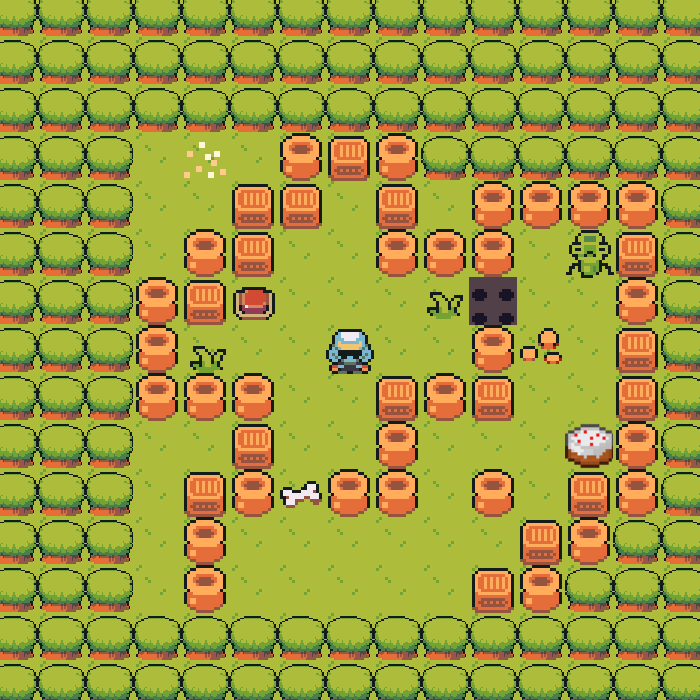
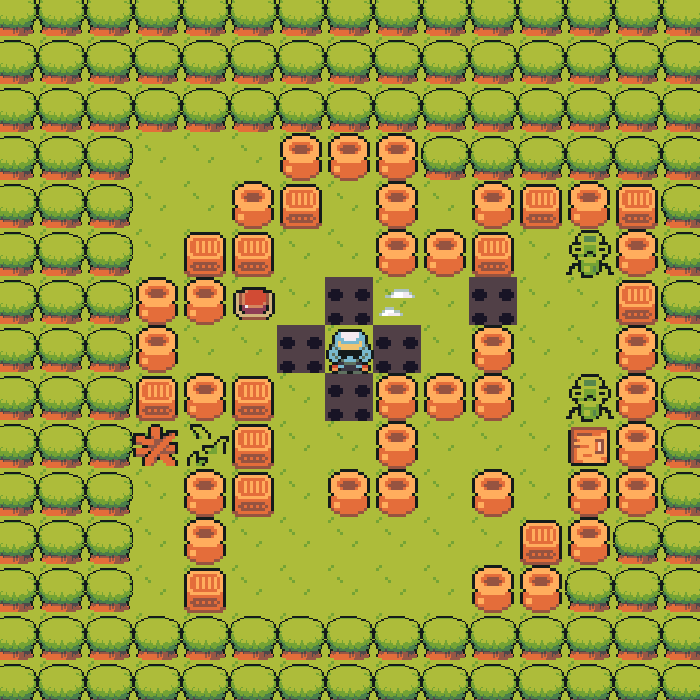
buttons

diff --git a/game.py b/game.py
@@ -24,7 +24,7 @@ class Game:
         self.tile_images = {
             'wall': pygame.transform.scale(functions.load_image('barrier.png'), (96, 48)),
             'empty': pygame.transform.scale(functions.load_image('floor.png'), (144, 144)),
-            'door': functions.load_image('door.png'),
+            'door': pygame.transform.scale(functions.load_image('door.png'), (48, 48)),
             'player': pygame.transform.scale(functions.load_image('spriteSheet.png'), (192, 48)),
             'slime': pygame.transform.scale(functions.load_image('slime.png'), (192, 48)),
             'key': pygame.transform.scale(functions.load_image('key.png'), (96, 48)),
@@ -32,7 +32,9 @@ class Game:
             'floorDetail': pygame.transform.scale(functions.load_image('floorDetail.png'), (768, 192)),
             'tree': pygame.transform.scale(functions.load_image('tree.png'), (48, 48)),
             'deadPlayer': pygame.transform.scale(functions.load_image('deadPlayer.png'), (48, 48)),
-            'spikes': pygame.transform.scale(functions.load_image('spikes.png'), (480, 48))
+            'spikes': pygame.transform.scale(functions.load_image('spikes.png'), (480, 48)),
+            'shuriken': pygame.transform.scale(functions.load_image('shrilen.png'), (96, 48)),
+            'darkNinja': pygame.transform.scale((functions.load_image('darkNinja.png')), (192, 96))
         }
         self.enemies = []
         self.coordSpikes = []

diff --git a/darkNinja.py b/darkNinja.py
@@ -1,0 +1,25 @@
+from dynamicGameObject import DynamicGameObject
+import pygame
+
+
+class DarkNinja(DynamicGameObject):
+    def __init__(self, sheet, pos_x, pos_y, game, cols, rows, isVertically):
+        super().__init__(sheet, pos_x, pos_y, game, cols, rows)
+        self.framesAttack = self.frames[4:] if isVertically else self.frames[4:]
+        self.frames = self.frames[:2] if isVertically else self.frames[2:4]
+        self.speedX = 0 if isVertically else 1
+        self.speedY = 1 if isVertically else 0
+        self.missiles = []
+
+    def update(self, *args):
+        if self.check(self.coord.x + self.speedX, self.coord.y + self.speedY):
+            self.coord += [self.speedX, self.speedY]
+            self.rect.x += self.speedX * self.game.tile_width
+            self.rect.y += self.speedY * self.game.tile_height
+        else:
+            self.speedY *= -1
+            self.speedX *= -1
+            self.update_sprite((self.cur_frame + 1) % 2)
+            self.coord += [self.speedX, self.speedY]
+            self.rect.x += self.speedX * self.game.tile_width
+            self.rect.y += self.speedY * self.game.tile_height

diff --git a/missile.py b/missile.py
@@ -1,0 +1,18 @@
+from dynamicGameObject import DynamicGameObject
+import pygame
+
+
+class Missile(DynamicGameObject):
+    def __init__(self, sheet, pos_x, pos_y, game, cols, rows, isVertically, owner):
+        super().__init__(sheet, pos_x, pos_y, game, cols, rows)
+        self.speedX = 0 if isVertically else 1
+        self.speedY = 1 if isVertically else 0
+        self.owner = owner
+
+    def update(self, *args):
+        if self.check(self.coord.x + self.speedX, self.coord.y + self.speedY):
+            self.coord += [self.speedX, self.speedY]
+            self.rect.x += self.speedX * self.game.tile_width
+            self.rect.y += self.speedY * self.game.tile_height
+        else:
+            self.owner.conflict(self)

diff --git a/button.py b/button.py
@@ -53,7 +53,7 @@ class ButtonLevel(Button):
         if self.rect.x < mouse[0] < self.rect.x + self.width:
             if self.rect.y < mouse[1] < self.rect.y + self.height:
                 pygame.draw.rect(screen, self.staticColor, (self.rect.x, self.rect.y, self.width, self.height))
-                if click[0] == 1:
+                if click[0] == 1: 
                     # pygame.mixer.Sound.play(mp3_button)
                     # pygame.time.delay(170)
                     if self.action is not None and not self.isPressed:

diff --git a/functions.py b/functions.py
@@ -93,9 +93,9 @@ def generate_level(level, game, inHouse):
     # Генерация врагов
     for y in range(len(level)):
         for x in range(len(level[y])):
-            if level[y][x] == '-':
+            if level[y][x] == '|':
                 enemy.append(Slime('slime', x, y, game, True, 4, 1))
-            elif level[y][x] == '|':
+            elif level[y][x] == '-':
                 enemy.append(Slime('slime', x, y, game, False, 4, 1))
     # Генерация игрока
     for y in range(len(level)):

diff --git a/door.py b/door.py
@@ -18,4 +18,4 @@ class Door(StaticGameObject):
         if not self.lock:
             self.game.end_screen(True)
             return self.solid
-        return False
+        return True
